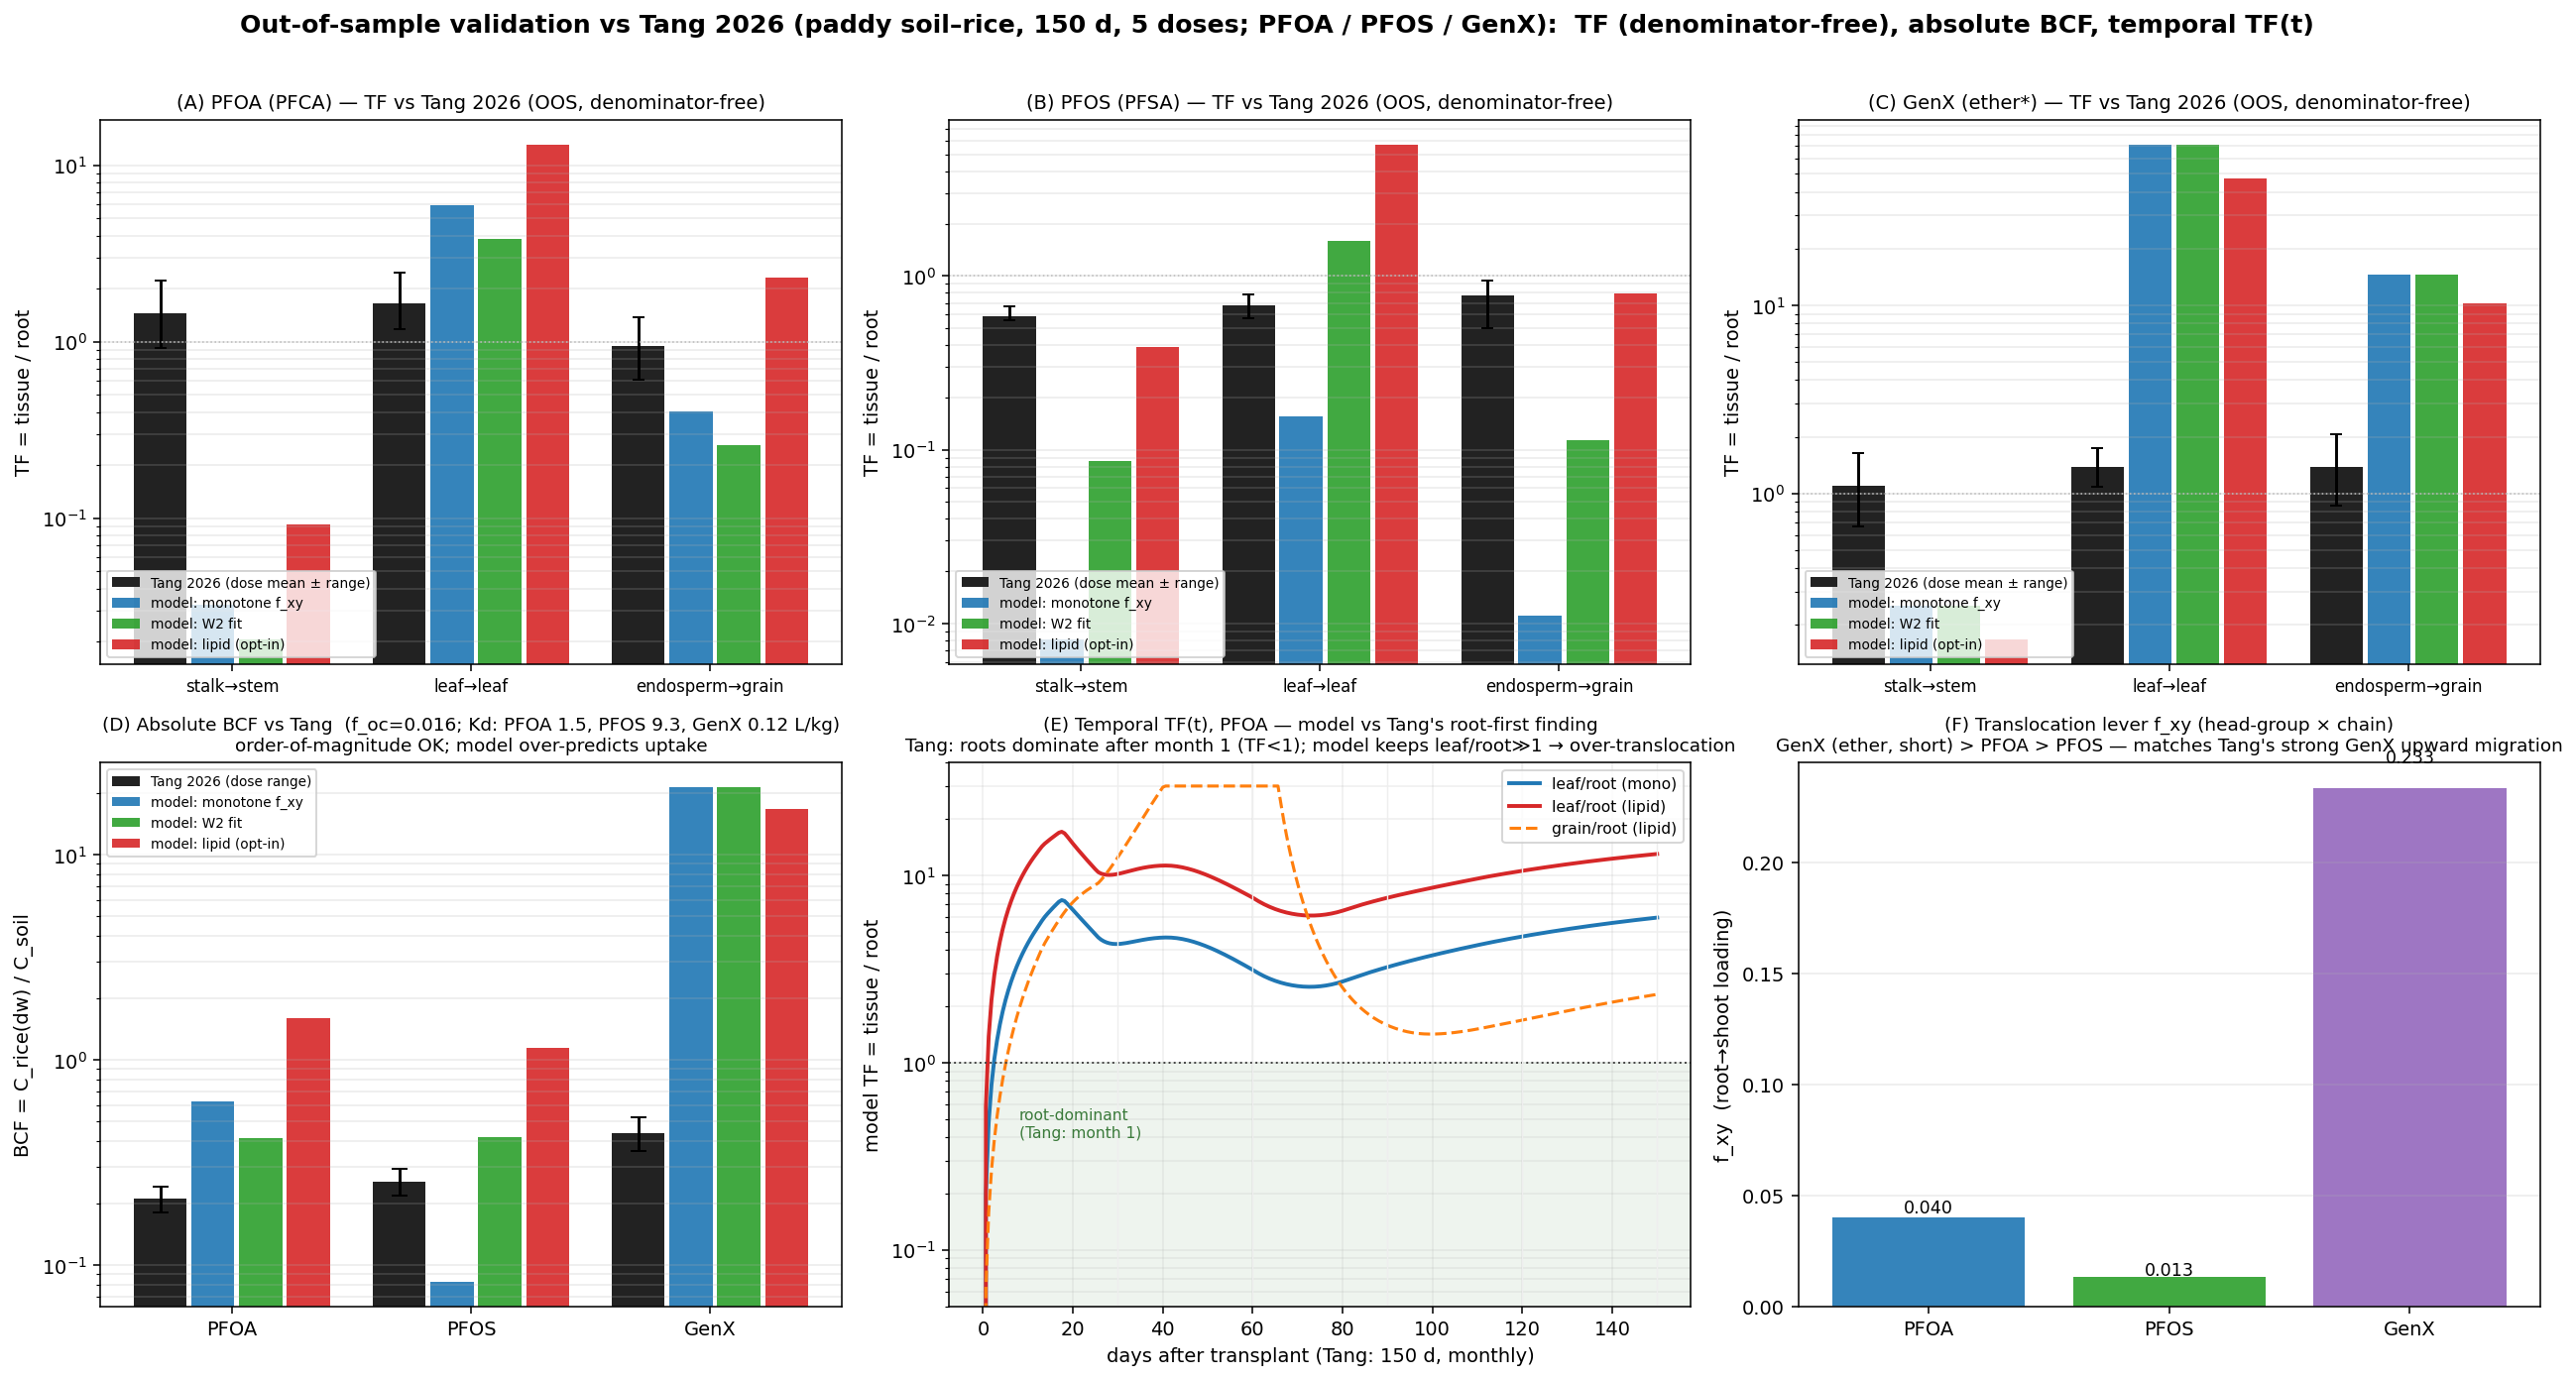
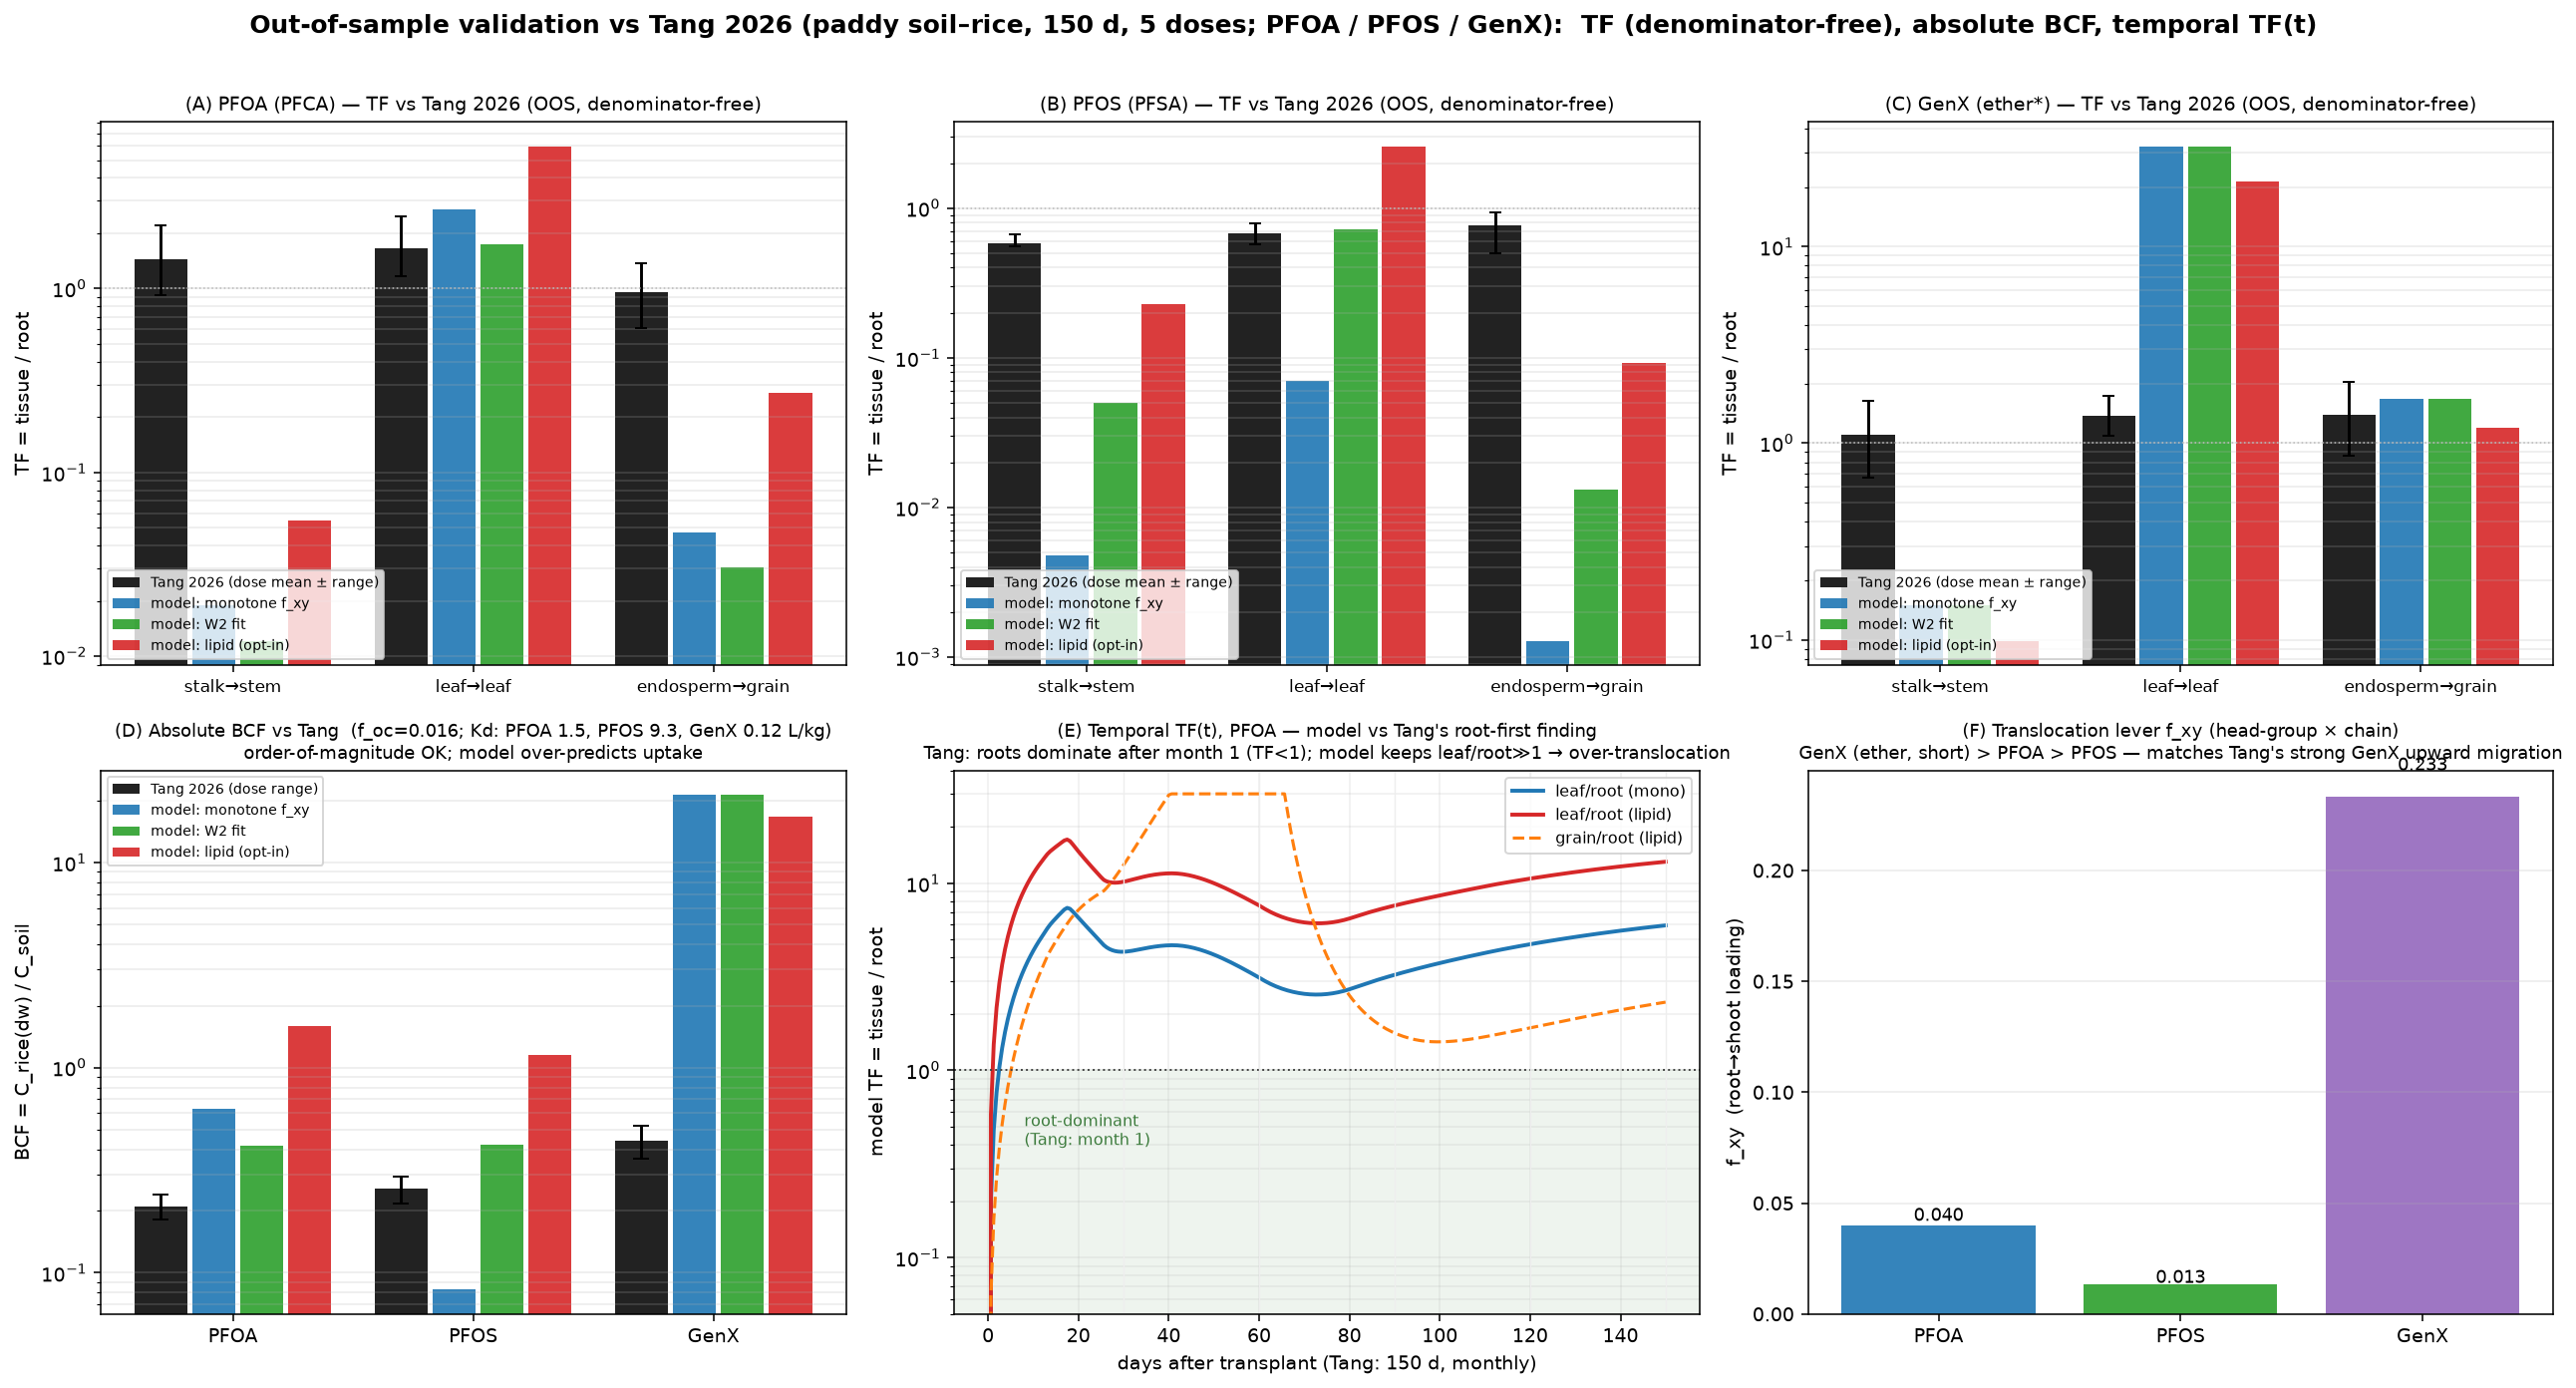
Fix fresh/dry units in Tang per-organ TF; grain gap is structural (not L_Ph)
Started as an L_Ph re-fit to close the grain/endosperm gap; found a units
inconsistency instead. Tang TF is dry/dry; the model conc is fresh-weight; the
fresh->dry factor (1-theta) does NOT cancel between tissues (root theta=0.90 vs
grain 0.14), so it must be applied: TF_dw = TF_fw*(1-theta_root)/(1-theta_tissue)
(grain x0.116). validation/tang2026_validation.py compared FRESH model TF to DRY
Tang TF (justified by exposure-basis independence, which is the wrong axis) -> the
'PFOS grain 0.80 vs 0.77 match' was a fw/dw artifact; corrected it is 0.09 vs 0.77
(~8x under). model_tf now dw-converts -> all three Tang scripts are on the same
(correct) dry-weight basis.

Then showed the grain gap is STRUCTURAL: at the Tang-refit f_xy, no L_Ph (even maxed)
nor the lipid g_ph term lifts grain TF_dw past ~0.3-0.7 vs Tang 0.9-1.6 (ceiling
tables across 4-pool/nstem_leaf x +-lipid). nstem_leaf's correct shoot split actually
STARVES the grain vs the 4-pool leaf-sink -> shoot distribution and grain trade off;
grain needs a grain-specific mechanism, not an L_Ph re-fit.

New: docs/tang2026_grain_units_exploration.md (full writeup + tables). Updated
VALIDATION_TANG2026_KR.md (units correction) and tang2026_fxy_refit.py (grain note).
No model/param change.

diff --git a/validation/tang2026_validation.py b/validation/tang2026_validation.py
@@ -77,10 +77,22 @@ def _run(nm, mode):
 
 
 def model_tf(nm, mode):
-    """Model TF = C_tissue/C_root at maturity (dose-independent: BAF ratio)."""
+    """Model TF = C_tissue(dw)/C_root(dw) at maturity, on Tang's DRY-WEIGHT basis.
+
+    TF is independent of the EXPOSURE basis (Cw cancels: Tang soil vs model pore water),
+    but NOT of the tissue-moisture basis: the model concentrations are FRESH-weight
+    (C = B_k·Cw, basis A) while Tang's TF is dry/dry, and the fresh->dry factor (1−θ_fw)
+    differs between tissues (root θ=0.90 vs grain θ=0.14), so it does NOT cancel. It must
+    be applied:  TF_dw = TF_fw · (1−θ_root)/(1−θ_tissue).
+    [Correction: earlier this returned the FRESH-weight ratio, which understated what
+    Tang's dry-weight TF requires by (1−θ_root)/(1−θ_tissue) — ~0.59 stem, ~0.45 leaf,
+    ~0.12 grain. The "grain matches" result was a fw/dw artifact; see
+    docs/tang2026_grain_units_exploration.md.]"""
     r = _run(nm, mode)
+    th = {"stem": THETA_FW[1], "leaf": THETA_FW[2], "grain": THETA_FW[3]}
+    froot = 1.0 - THETA_FW[0]
     root = r["baf_final"]["root"]
-    return {k: r["baf_final"][k] / root for k in ("stem", "leaf", "grain")}
+    return {k: (r["baf_final"][k] / root) * froot / (1.0 - th[k]) for k in ("stem", "leaf", "grain")}
 
 
 def model_bcf(nm, mode):

diff --git a/validation/tang2026_fxy_refit.py b/validation/tang2026_fxy_refit.py
@@ -24,8 +24,11 @@ confounded -- the basis of the f_xy head-group offset in raw_si/tang2026_tf_bcf.
 the across-dose MEAN is reported as a sensitivity.
 
 f_xy is fit (1-D, log-space) to the two f_xy-controlled shoot organs (stalk, leaf);
-grain/endosperm is phloem-fed (L_Ph) and only reported.  TF is dw-converted to match
-Tang: TF_dw = TF_fw * (1-theta_root)/(1-theta_organ).
+grain/endosperm is phloem-fed (L_Ph) and only reported -- and NOTE that L_Ph CANNOT
+close the grain gap: even maxed (and with the lipid g_ph term) grain TF_dw ceilings at
+~0.3-0.7 vs Tang's 0.9-1.6, so the grain under-prediction is STRUCTURAL on a dry-weight
+basis, not an L_Ph calibration issue (docs/tang2026_grain_units_exploration.md).  TF is
+dw-converted to match Tang: TF_dw = TF_fw * (1-theta_root)/(1-theta_organ).
 
 Provenance: the fitted f_xy is reported as an OVERRIDE only -- params/parameters.json
 is NOT modified (same policy as the existing Tang nstem validation).

diff --git a/docs/tang2026_grain_units_exploration.md b/docs/tang2026_grain_units_exploration.md
@@ -1,0 +1,98 @@
+# Tang 2026 grain TF — a fresh/dry units correction, and the structural grain gap
+
+> Exploration note (companion to `VALIDATION_TANG2026_KR.md`,
+> `validation/tang2026_validation.py`, `validation/tang2026_fxy_refit.py`).
+> Started as an attempt to close the grain/endosperm gap by re-fitting the phloem
+> loading `L_Ph`; ended by finding (a) a fresh/dry **units inconsistency** in the
+> per-organ TF comparison, and (b) that, once corrected, the grain gap is
+> **structural** — `L_Ph` cannot close it.
+
+## TL;DR
+1. **Units.** Tang's TF is **dry-weight / dry-weight**; the model's tissue
+   concentrations are **fresh-weight** (`C = B_k·Cw`, basis A). TF is independent of
+   the *exposure* basis (`Cw` cancels: Tang soil vs model pore water) — but **not** of
+   the *tissue-moisture* basis, because the fresh→dry factor `(1−θ_fw)` differs between
+   tissues (root θ=0.90 vs grain θ=0.14) and does **not** cancel:
+   `TF_dw = TF_fw · (1−θ_root)/(1−θ_tissue)`  →  ×0.59 stem, ×0.45 leaf, **×0.116 grain**.
+2. **The old "grain matches" was a fw/dw artifact.** `tang2026_validation.py` previously
+   compared the **fresh-weight** model TF to Tang's **dry-weight** TF. That made PFOS
+   endosperm read "0.80 ≈ 0.77 (Tang)". Corrected to dw, it is **0.09 vs 0.77 — ~8× under**.
+3. **The grain gap is structural.** With the f_xy re-calibrated to Tang (shoot) and the
+   shoot distribution restored (nstem_leaf), **no `L_Ph` (even maxed) nor the lipid `g_ph`
+   term** lifts grain TF_dw to Tang's endosperm. It is not an `L_Ph` calibration issue.
+
+## 1. The units inconsistency (now fixed)
+`tang2026_validation.py.model_tf` returned `baf_final[tissue]/baf_final[root]` — a
+fresh-weight ratio — and compared it to Tang's dry-weight S8 TF. The header justified
+this by "TF is denominator-free / independent of the exposure basis", which is true for
+the **Cw** axis but was wrongly extended to the **fw↔dw** axis. The two other Tang
+scripts (`tang2026_fxy_TF_validation.py`, `tang2026_fxy_refit.py`) already dw-converted,
+so the repo was internally inconsistent. `model_tf` now applies the dw factor; all three
+scripts are on the same (correct, dry-weight) basis.
+
+### Corrected per-organ TF (dw), model vs Tang (across-dose mean)
+| congener | tissue | Tang | monotone | W2 | lipid |
+|---|---|---|---|---|---|
+| PFOA | stalk | 1.45 | 0.02 | 0.01 | 0.05 |
+| PFOA | leaf | 1.66 | 2.70 | 1.74 | 5.92 |
+| PFOA | **endosperm** | **0.95** | 0.05 | 0.03 | **0.27** |
+| PFOS | stalk | 0.58 | 0.00 | 0.05 | 0.23 |
+| PFOS | leaf | 0.68 | 0.07 | 0.72 | 2.57 |
+| PFOS | **endosperm** | **0.77** | 0.00 | 0.01 | **0.09** |
+| GenX | stalk | 1.10 | 0.15 | 0.15 | 0.10 |
+| GenX | leaf | 1.38 | 32.2 | 32.2 | 21.5 |
+| GenX | **endosperm** | **1.39** | 1.69 | 1.69 | **1.19** |
+
+(log10 RMSE, lipid: all 0.85, leaf+grain 0.73 — the dw fix slightly *helps* overall,
+because it pulls the over-predicted leaf down more than it pushes grain/stem down; but
+the per-organ story is now honest: **stem under, leaf over, grain badly under** for
+PFOA/PFOS. GenX grain is ~ok only because GenX over-translocates everything.)
+
+## 2. The grain ceiling — why `L_Ph` cannot close it
+Grain TF_dw at the **Tang-refit f_xy** (PFOA 0.097 / PFOS 0.320 / GenX 0.017), sweeping
+the phloem loading and the lipid term (nstem_leaf + ORYZA biomass):
+
+| congener | `L_Ph`=0 | `L_Ph`=0.5 | +lipid `g_ph` | **Tang endosperm (0.1 µg/g)** |
+|---|---|---|---|---|
+| PFOA | 0.32 | 0.51 | 0.69 | **1.37** |
+| PFOS | 0.09 | 0.11 | 0.29 | **0.94** |
+| GenX | 0.17 | 0.29 | 0.25 | **1.62** |
+
+And across model structures (refit f_xy, dw):
+
+| congener | 4-pool | 4-pool+lipid | nstem_leaf | nstem+lipid | Tang |
+|---|---|---|---|---|---|
+| PFOA | 0.18 | 0.61 | 0.33 | 0.69 | 1.37 |
+| PFOS | 0.05 | 0.21 | 0.09 | 0.29 | 0.94 |
+| GenX | 0.21 | 0.24 | 0.22 | 0.25 | 1.62 |
+
+The best any configuration reaches is ~0.7 (PFOA, nstem+lipid) — still ~2× under; PFOS/GenX
+are ~3–6× under. **`L_Ph` saturates well below Tang.**
+
+## 3. Interpretation
+- Per **dry** gram, Tang's endosperm holds ≈1.0–1.6× the root. In **fresh** terms that
+  is ≈9–14× the root (grain is ~dry, root is ~90% water), which phloem delivery + the
+  *measured* grain binding `B_grain` (Chen K_PL / Zhou K_prot) cannot produce.
+- **Restoring the shoot distribution starves the grain.** The 4-pool over-delivers to
+  grain through its leaf-sink (an artifact); nstem_leaf (correct stem~leaf split) lowers
+  grain. You cannot get the shoot split **and** the grain right with the current phloem
+  structure — they trade off.
+- So grain accumulation needs a **grain-specific mechanism** (e.g. endosperm
+  storage-protein/starch sequestration beyond the current `B_grain`, or a phloem-unloading
+  enrichment step), **not** an `L_Ph` re-fit. This mirrors the documented root-sequestration
+  negative result (`data_inventory_and_gaps.md` §3).
+
+## 4. What changed in the repo
+- `validation/tang2026_validation.py` — `model_tf` now dw-converts (consistent with the
+  other two Tang scripts); figure regenerated.
+- `VALIDATION_TANG2026_KR.md` — grain "match" corrected (units note added).
+- `validation/tang2026_fxy_refit.py` — grain is reported, **not** fit; note added that
+  `L_Ph` cannot close the grain gap (this doc).
+- No model or `parameters.json` change; the Tang-refit f_xy stays override-only.
+
+## 5. Open follow-up
+A grain-enrichment mechanism is a **data** question first: per-organ subcellular PFAS in
+the **filling grain** (endosperm vs aleurone vs pericarp), and phloem-sap [PFAS] at the
+peduncle, to decide between (i) higher effective `B_grain` and (ii) active phloem
+unloading. Until then, grain TF should be reported as an **order-of-magnitude** quantity
+with this known low bias (~3–8× for PFCA/PFSA on a dry-weight basis).

diff --git a/docs/VALIDATION_TANG2026_KR.md b/docs/VALIDATION_TANG2026_KR.md
@@ -8,6 +8,13 @@
 > **잎은 과대**(이동성 큰 **GenX에서 극심**), **초기 뿌리 우세(root-first)를 재현 못 함** — Tang이 모델의 **지상부 구획 분배(과이행)
 > 약점**을 정량적으로 짚어줍니다(→ 다구획 줄기 nstem이 개선 방향).
 
+> ⚠️ **정정 (단위, fresh/dry)** — 위 "이삭 이행 lipid·PFOS **0.80 vs 0.77**"은 **모델 *신선중* TF를 Tang *건중* TF와
+> 비교한 단위 아티팩트**였습니다. TF는 *노출* 기준(`Cw`: 토양 vs 공극수)엔 무관하지만 *조직 수분* 기준(fw/dw)엔
+> 무관하지 **않습니다**(뿌리 θ=0.90 vs 이삭 θ=0.14 → `TF_dw = TF_fw·(1−θ_root)/(1−θ_tissue)`, 이삭 ×0.116).
+> `tang2026_validation.py`를 dw 일관으로 **수정**한 결과 PFOS 이삭은 **0.09 vs 0.77 (≈8배 과소)**입니다. 즉
+> **이삭/낟알은 구조적으로 크게 과소**이며 `L_Ph`(최대) 나 lipid 항으로도 못 닫힙니다(천장 ~0.3–0.7). 전말·천장표:
+> **`docs/tang2026_grain_units_exploration.md`**. (줄기 과소·잎 과대 결론은 유지; 부호·순서·BCF 결론도 유지.)
+
 ![Tang 2026 검증 그림](../validation/figures/tang2026_validation.png)
 
 *그림(6패널): (A·B·C) PFOA·PFOS·**GenX**의 TF(조직/뿌리) — Tang(검정, 5용량 평균±범위) vs 모델 3변형(monotone/W2/lipid),